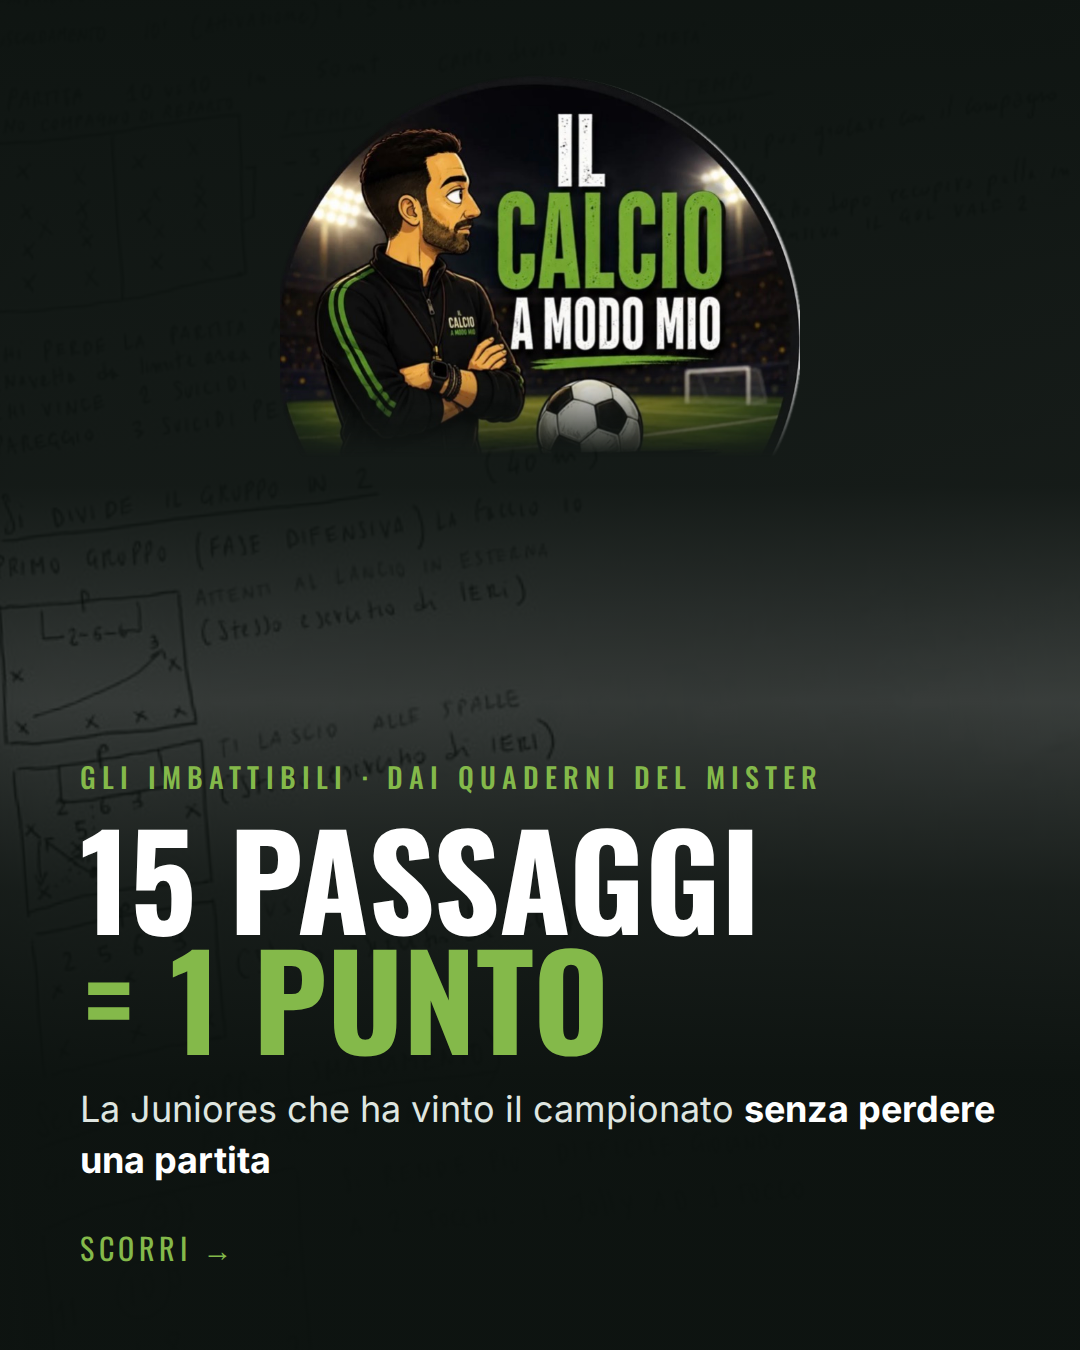
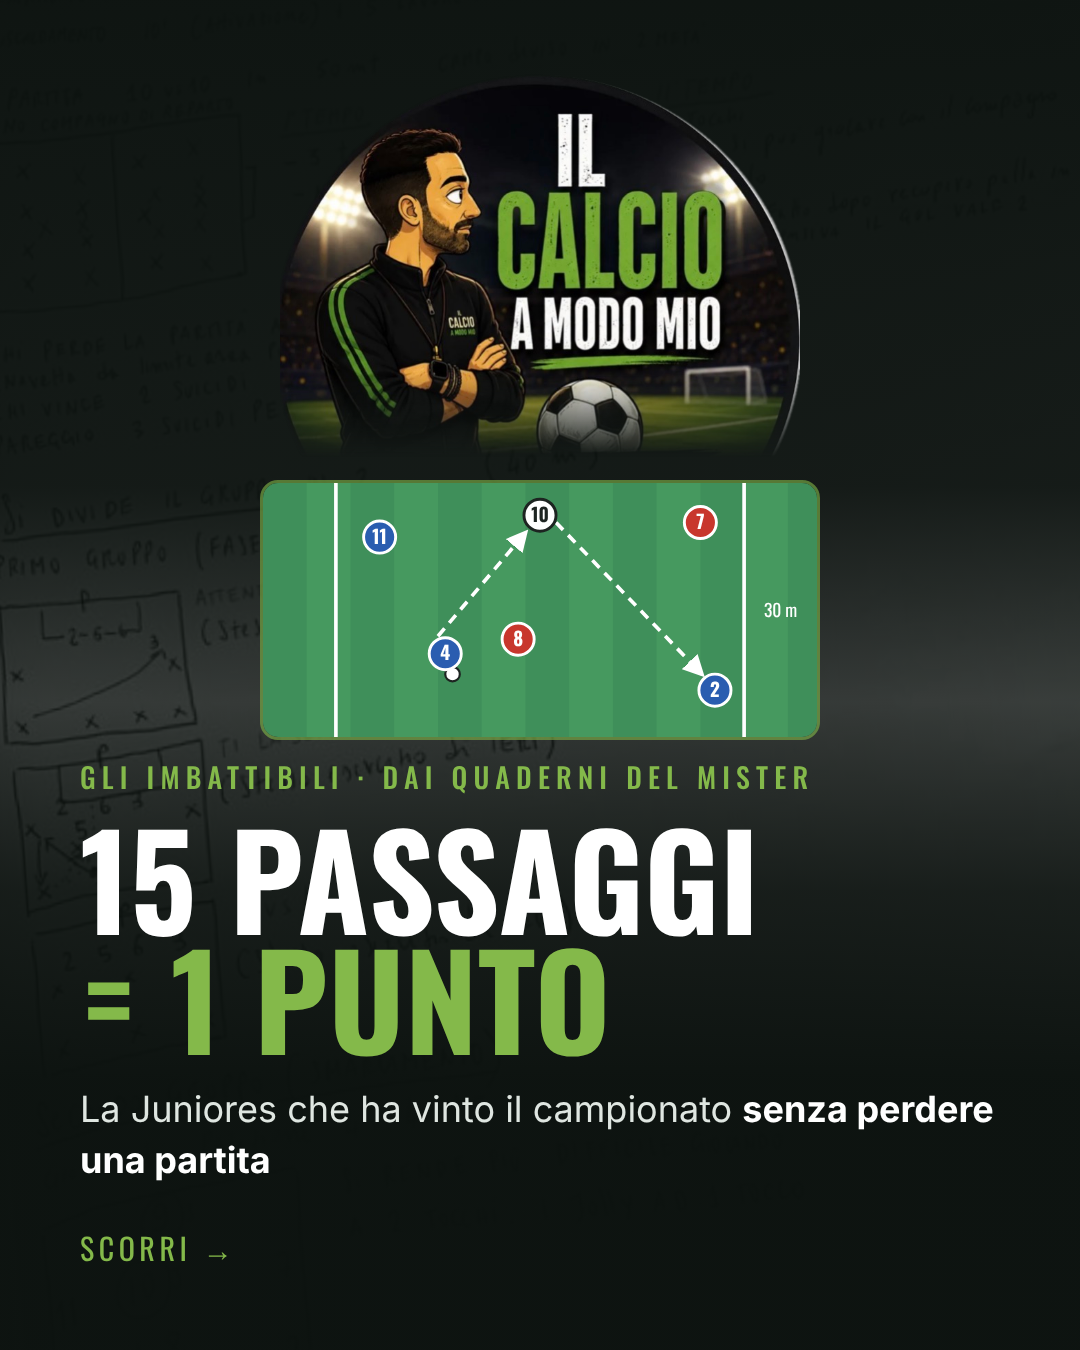
Post 3: copertina con un pezzo di schema
Claude-Session: https://claude.ai/code/session_01C6jnkpg7j78s78of7Dc7AP

diff --git a/marketing/social/post-9x16.html b/marketing/social/post-9x16.html
@@ -8,7 +8,10 @@ h1, h2 { font-family: Oswald, sans-serif; font-weight: 700; text-transform: uppe
 .cop, .fine { background: #0c120f; color: #fff; }
 .cop .bgimg { position: absolute; inset: -40px; width: calc(100% + 80px); height: calc(100% + 80px); object-fit: cover; transform: rotate(-4deg) scale(1.08); filter: grayscale(1) contrast(1.1); opacity: .55; }
 .cop .veil { position: absolute; inset: 0; background: linear-gradient(180deg, rgba(12,18,15,.97) 0%, rgba(12,18,15,.9) 36%, rgba(12,18,15,.5) 52%, rgba(12,18,15,.85) 66%, rgba(12,18,15,.98) 80%); }
-.cop .logo { position: absolute; top: 200px; left: 50%; transform: translateX(-50%); width: 620px; -webkit-mask-image: linear-gradient(180deg, #000 80%, transparent 100%); }
+.cop .logo { position: absolute; top: 170px; left: 50%; transform: translateX(-50%); width: 440px; -webkit-mask-image: linear-gradient(180deg, #000 80%, transparent 100%); }
+.copschema { position: absolute; left: 50%; transform: translateX(-50%); top: 650px; width: 700px; height: 340px; border-radius: 18px; overflow: hidden; border: 3px solid rgba(132,185,74,.6); }
+.cop.cs .txt { top: 1040px }
+.copschema svg { width: 100%; height: 100%; display: block; }
 .cop .txt { position: absolute; left: 80px; right: 80px; top: 860px; }
 .kick { font-family: Oswald, sans-serif; font-weight: 500; letter-spacing: .22em; text-transform: uppercase; font-size: 28px; color: #84b94a; }
 .cop h1, .fine h1 { font-size: 150px; line-height: .92; margin: 20px 0 28px; }
@@ -62,6 +65,7 @@ h1, h2 { font-family: Oswald, sans-serif; font-weight: 700; text-transform: uppe
   <img class="bgimg" src="../../materiale/precampionato/allenamento-04.jpg">
   <div class="veil"></div>
   <img class="logo" src="../../materiale/brand/logo-cerchio.png">
+  
   <div class="txt">
     <div class="kick">Gli Imbattibili · dai quaderni del mister</div>
     <h1>Come difendevamo<span>sui cross</span></h1>
@@ -104,6 +108,7 @@ h1, h2 { font-family: Oswald, sans-serif; font-weight: 700; text-transform: uppe
   <img class="bgimg" src="../../materiale/precampionato/allenamento-04-b.jpg">
   <div class="veil"></div>
   <img class="logo" src="../../materiale/brand/logo-cerchio.png">
+  
   <div class="txt">
     <div class="kick">Gli Imbattibili · dai quaderni del mister</div>
     <h1>Preventiva<span>1</span></h1>
@@ -146,10 +151,21 @@ h1, h2 { font-family: Oswald, sans-serif; font-weight: 700; text-transform: uppe
   <p class="sub">La Juniores che ha vinto il campionato <b>senza perdere una partita</b>. Gli allenamenti del precampionato, scritti a mano dal mister e messi in pagina.</p>
   <div class="azioni"><div>Salva il post</div><div>Seguici per il prossimo</div></div>
 </section>
-<section class="slide cop">
+<section class="slide cop cs">
   <img class="bgimg" src="../../materiale/precampionato/allenamento-03.jpg">
   <div class="veil"></div>
   <img class="logo" src="../../materiale/brand/logo-cerchio.png">
+  <div class="copschema"><svg preserveAspectRatio="xMidYMid slice" viewBox="60 0 380 340">
+    <rect x="60" width="380" height="340" fill="url(#strisce)"/>
+    <rect x="110" y="30" width="280" height="280" fill="none" stroke="#fff" stroke-width="2.5"/>
+    <text x="250" y="332" font-family="Oswald" font-size="12" fill="#fff" text-anchor="middle">30 m</text>
+    <text x="415" y="175" font-family="Oswald" font-size="12" fill="#fff" text-anchor="middle">30 m</text>
+    <path d="M180,188 L240,117" stroke="#fff" stroke-width="2.5" fill="none" stroke-dasharray="7 5" marker-end="url(#freccia)"/><path d="M261,110 L361,214" stroke="#fff" stroke-width="2.5" fill="none" stroke-dasharray="7 5" marker-end="url(#freccia)"/>
+    <use href="#palla" x="190" y="214"/>
+    <use href="#pJ" x="250" y="30"/><text x="250" y="34.5" font-family="Oswald" font-size="13" font-weight="700" text-anchor="middle" fill="#1d2421">9</text><use href="#pJ" x="250" y="105"/><text x="250" y="109.5" font-family="Oswald" font-size="13" font-weight="700" text-anchor="middle" fill="#1d2421">10</text>
+    <use href="#pB" x="140" y="120"/><text x="140" y="124.5" font-family="Oswald" font-size="13" font-weight="700" text-anchor="middle" fill="#fff">11</text><use href="#pB" x="185" y="200"/><text x="185" y="204.5" font-family="Oswald" font-size="13" font-weight="700" text-anchor="middle" fill="#fff">4</text><use href="#pB" x="370" y="225"/><text x="370" y="229.5" font-family="Oswald" font-size="13" font-weight="700" text-anchor="middle" fill="#fff">2</text><use href="#pB" x="235" y="280"/><text x="235" y="284.5" font-family="Oswald" font-size="13" font-weight="700" text-anchor="middle" fill="#fff">5</text>
+    <use href="#pA" x="360" y="110"/><text x="360" y="114.5" font-family="Oswald" font-size="13" font-weight="700" text-anchor="middle" fill="#fff">7</text><use href="#pA" x="235" y="190"/><text x="235" y="194.5" font-family="Oswald" font-size="13" font-weight="700" text-anchor="middle" fill="#fff">8</text><use href="#pA" x="140" y="275"/><text x="140" y="279.5" font-family="Oswald" font-size="13" font-weight="700" text-anchor="middle" fill="#fff">3</text><use href="#pA" x="305" y="270"/><text x="305" y="274.5" font-family="Oswald" font-size="13" font-weight="700" text-anchor="middle" fill="#fff">6</text>
+  </svg></div>
   <div class="txt">
     <div class="kick">Gli Imbattibili · dai quaderni del mister</div>
     <h1>15 passaggi<span>= 1 punto</span></h1>

diff --git a/marketing/social/post-4x5.html b/marketing/social/post-4x5.html
@@ -9,6 +9,9 @@ h1, h2 { font-family: Oswald, sans-serif; font-weight: 700; text-transform: uppe
 .cop .bgimg { position: absolute; inset: -40px; width: calc(100% + 80px); height: calc(100% + 80px); object-fit: cover; transform: rotate(-4deg) scale(1.08); filter: grayscale(1) contrast(1.1); opacity: .55; }
 .cop .veil { position: absolute; inset: 0; background: linear-gradient(180deg, rgba(12,18,15,.97) 0%, rgba(12,18,15,.9) 36%, rgba(12,18,15,.5) 52%, rgba(12,18,15,.85) 66%, rgba(12,18,15,.98) 80%); }
 .cop .logo { position: absolute; top: 40px; left: 50%; transform: translateX(-50%); width: 520px; -webkit-mask-image: linear-gradient(180deg, #000 80%, transparent 100%); }
+.copschema { position: absolute; left: 50%; transform: translateX(-50%); top: 480px; width: 560px; height: 260px; border-radius: 18px; overflow: hidden; border: 3px solid rgba(132,185,74,.6); }
+.cop.cs .txt {  }
+.copschema svg { width: 100%; height: 100%; display: block; }
 .cop .txt { position: absolute; left: 80px; right: 80px; bottom: 80px; }
 .kick { font-family: Oswald, sans-serif; font-weight: 500; letter-spacing: .22em; text-transform: uppercase; font-size: 28px; color: #84b94a; }
 .cop h1, .fine h1 { font-size: 130px; line-height: .92; margin: 20px 0 28px; }
@@ -62,6 +65,7 @@ h1, h2 { font-family: Oswald, sans-serif; font-weight: 700; text-transform: uppe
   <img class="bgimg" src="../../materiale/precampionato/allenamento-04.jpg">
   <div class="veil"></div>
   <img class="logo" src="../../materiale/brand/logo-cerchio.png">
+  
   <div class="txt">
     <div class="kick">Gli Imbattibili · dai quaderni del mister</div>
     <h1>Come difendevamo<span>sui cross</span></h1>
@@ -104,6 +108,7 @@ h1, h2 { font-family: Oswald, sans-serif; font-weight: 700; text-transform: uppe
   <img class="bgimg" src="../../materiale/precampionato/allenamento-04-b.jpg">
   <div class="veil"></div>
   <img class="logo" src="../../materiale/brand/logo-cerchio.png">
+  
   <div class="txt">
     <div class="kick">Gli Imbattibili · dai quaderni del mister</div>
     <h1>Preventiva<span>1</span></h1>
@@ -146,10 +151,21 @@ h1, h2 { font-family: Oswald, sans-serif; font-weight: 700; text-transform: uppe
   <p class="sub">La Juniores che ha vinto il campionato <b>senza perdere una partita</b>. Gli allenamenti del precampionato, scritti a mano dal mister e messi in pagina.</p>
   <div class="azioni"><div>Salva il post</div><div>Seguici per il prossimo</div></div>
 </section>
-<section class="slide cop">
+<section class="slide cop cs">
   <img class="bgimg" src="../../materiale/precampionato/allenamento-03.jpg">
   <div class="veil"></div>
   <img class="logo" src="../../materiale/brand/logo-cerchio.png">
+  <div class="copschema"><svg preserveAspectRatio="xMidYMid slice" viewBox="60 0 380 340">
+    <rect x="60" width="380" height="340" fill="url(#strisce)"/>
+    <rect x="110" y="30" width="280" height="280" fill="none" stroke="#fff" stroke-width="2.5"/>
+    <text x="250" y="332" font-family="Oswald" font-size="12" fill="#fff" text-anchor="middle">30 m</text>
+    <text x="415" y="175" font-family="Oswald" font-size="12" fill="#fff" text-anchor="middle">30 m</text>
+    <path d="M180,188 L240,117" stroke="#fff" stroke-width="2.5" fill="none" stroke-dasharray="7 5" marker-end="url(#freccia)"/><path d="M261,110 L361,214" stroke="#fff" stroke-width="2.5" fill="none" stroke-dasharray="7 5" marker-end="url(#freccia)"/>
+    <use href="#palla" x="190" y="214"/>
+    <use href="#pJ" x="250" y="30"/><text x="250" y="34.5" font-family="Oswald" font-size="13" font-weight="700" text-anchor="middle" fill="#1d2421">9</text><use href="#pJ" x="250" y="105"/><text x="250" y="109.5" font-family="Oswald" font-size="13" font-weight="700" text-anchor="middle" fill="#1d2421">10</text>
+    <use href="#pB" x="140" y="120"/><text x="140" y="124.5" font-family="Oswald" font-size="13" font-weight="700" text-anchor="middle" fill="#fff">11</text><use href="#pB" x="185" y="200"/><text x="185" y="204.5" font-family="Oswald" font-size="13" font-weight="700" text-anchor="middle" fill="#fff">4</text><use href="#pB" x="370" y="225"/><text x="370" y="229.5" font-family="Oswald" font-size="13" font-weight="700" text-anchor="middle" fill="#fff">2</text><use href="#pB" x="235" y="280"/><text x="235" y="284.5" font-family="Oswald" font-size="13" font-weight="700" text-anchor="middle" fill="#fff">5</text>
+    <use href="#pA" x="360" y="110"/><text x="360" y="114.5" font-family="Oswald" font-size="13" font-weight="700" text-anchor="middle" fill="#fff">7</text><use href="#pA" x="235" y="190"/><text x="235" y="194.5" font-family="Oswald" font-size="13" font-weight="700" text-anchor="middle" fill="#fff">8</text><use href="#pA" x="140" y="275"/><text x="140" y="279.5" font-family="Oswald" font-size="13" font-weight="700" text-anchor="middle" fill="#fff">3</text><use href="#pA" x="305" y="270"/><text x="305" y="274.5" font-family="Oswald" font-size="13" font-weight="700" text-anchor="middle" fill="#fff">6</text>
+  </svg></div>
   <div class="txt">
     <div class="kick">Gli Imbattibili · dai quaderni del mister</div>
     <h1>15 passaggi<span>= 1 punto</span></h1>

diff --git a/marketing/social/genera-post.py b/marketing/social/genera-post.py
@@ -114,7 +114,7 @@ POST = [
                "Chi riceve nella <b>metà campo offensiva</b>, ha il tempo di girarsi e fa un passaggio <b>verticale o diagonale</b> a un compagno:&nbsp;<b>2&nbsp;punti</b>"],
     ),
     dict(
-        n=3, foto="allenamento-03.jpg",
+        n=3, foto="allenamento-03.jpg", cop_schema=True,
         gancio="15 passaggi<span>= 1 punto</span>",
         schema=schema_gioco,
         titolo2="Gioco di posizione",
@@ -134,10 +134,11 @@ def slides(p, tot=4):
     marchio = '<div class="marchio"><b>GLI IMBATTIBILI</b><span>Il calcio a modo mio</span></div>'
     punti = "".join(f"<li>{x}</li>" for x in p["punti"])
     return f'''
-<section class="slide cop">
+<section class="slide cop{' cs' if p.get('cop_schema') else ''}">
   <img class="bgimg" src="{MAT}/precampionato/{p["foto"]}">
   <div class="veil"></div>
   <img class="logo" src="{MAT}/brand/logo-cerchio.png">
+  {('<div class="copschema">' + p["schema"].replace('class="schema"', 'preserveAspectRatio="xMidYMid slice"') + '</div>') if p.get("cop_schema") else ''}
   <div class="txt">
     <div class="kick">Gli Imbattibili · dai quaderni del mister</div>
     <h1>{p["gancio"]}</h1>
@@ -180,7 +181,10 @@ h1, h2 {{ font-family: Oswald, sans-serif; font-weight: 700; text-transform: upp
 .cop, .fine {{ background: #0c120f; color: #fff; }}
 .cop .bgimg {{ position: absolute; inset: -40px; width: calc(100% + 80px); height: calc(100% + 80px); object-fit: cover; transform: rotate(-4deg) scale(1.08); filter: grayscale(1) contrast(1.1); opacity: .55; }}
 .cop .veil {{ position: absolute; inset: 0; background: linear-gradient(180deg, rgba(12,18,15,.97) 0%, rgba(12,18,15,.9) 36%, rgba(12,18,15,.5) 52%, rgba(12,18,15,.85) 66%, rgba(12,18,15,.98) 80%); }}
-.cop .logo {{ position: absolute; top: {200 if alto else 40}px; left: 50%; transform: translateX(-50%); width: {620 if alto else 520}px; -webkit-mask-image: linear-gradient(180deg, #000 80%, transparent 100%); }}
+.cop .logo {{ position: absolute; top: {170 if alto else 40}px; left: 50%; transform: translateX(-50%); width: {440 if alto else 520}px; -webkit-mask-image: linear-gradient(180deg, #000 80%, transparent 100%); }}
+.copschema {{ position: absolute; left: 50%; transform: translateX(-50%); top: {650 if alto else 480}px; width: {700 if alto else 560}px; height: {340 if alto else 260}px; border-radius: 18px; overflow: hidden; border: 3px solid rgba(132,185,74,.6); }}
+.cop.cs .txt {{ {'top: 1040px' if alto else ''} }}
+.copschema svg {{ width: 100%; height: 100%; display: block; }}
 .cop .txt {{ position: absolute; left: 80px; right: 80px; {'top: 860px' if alto else 'bottom: 80px'}; }}
 .kick {{ font-family: Oswald, sans-serif; font-weight: 500; letter-spacing: .22em; text-transform: uppercase; font-size: 28px; color: #84b94a; }}
 .cop h1, .fine h1 {{ font-size: {150 if alto else 130}px; line-height: .92; margin: 20px 0 28px; }}
